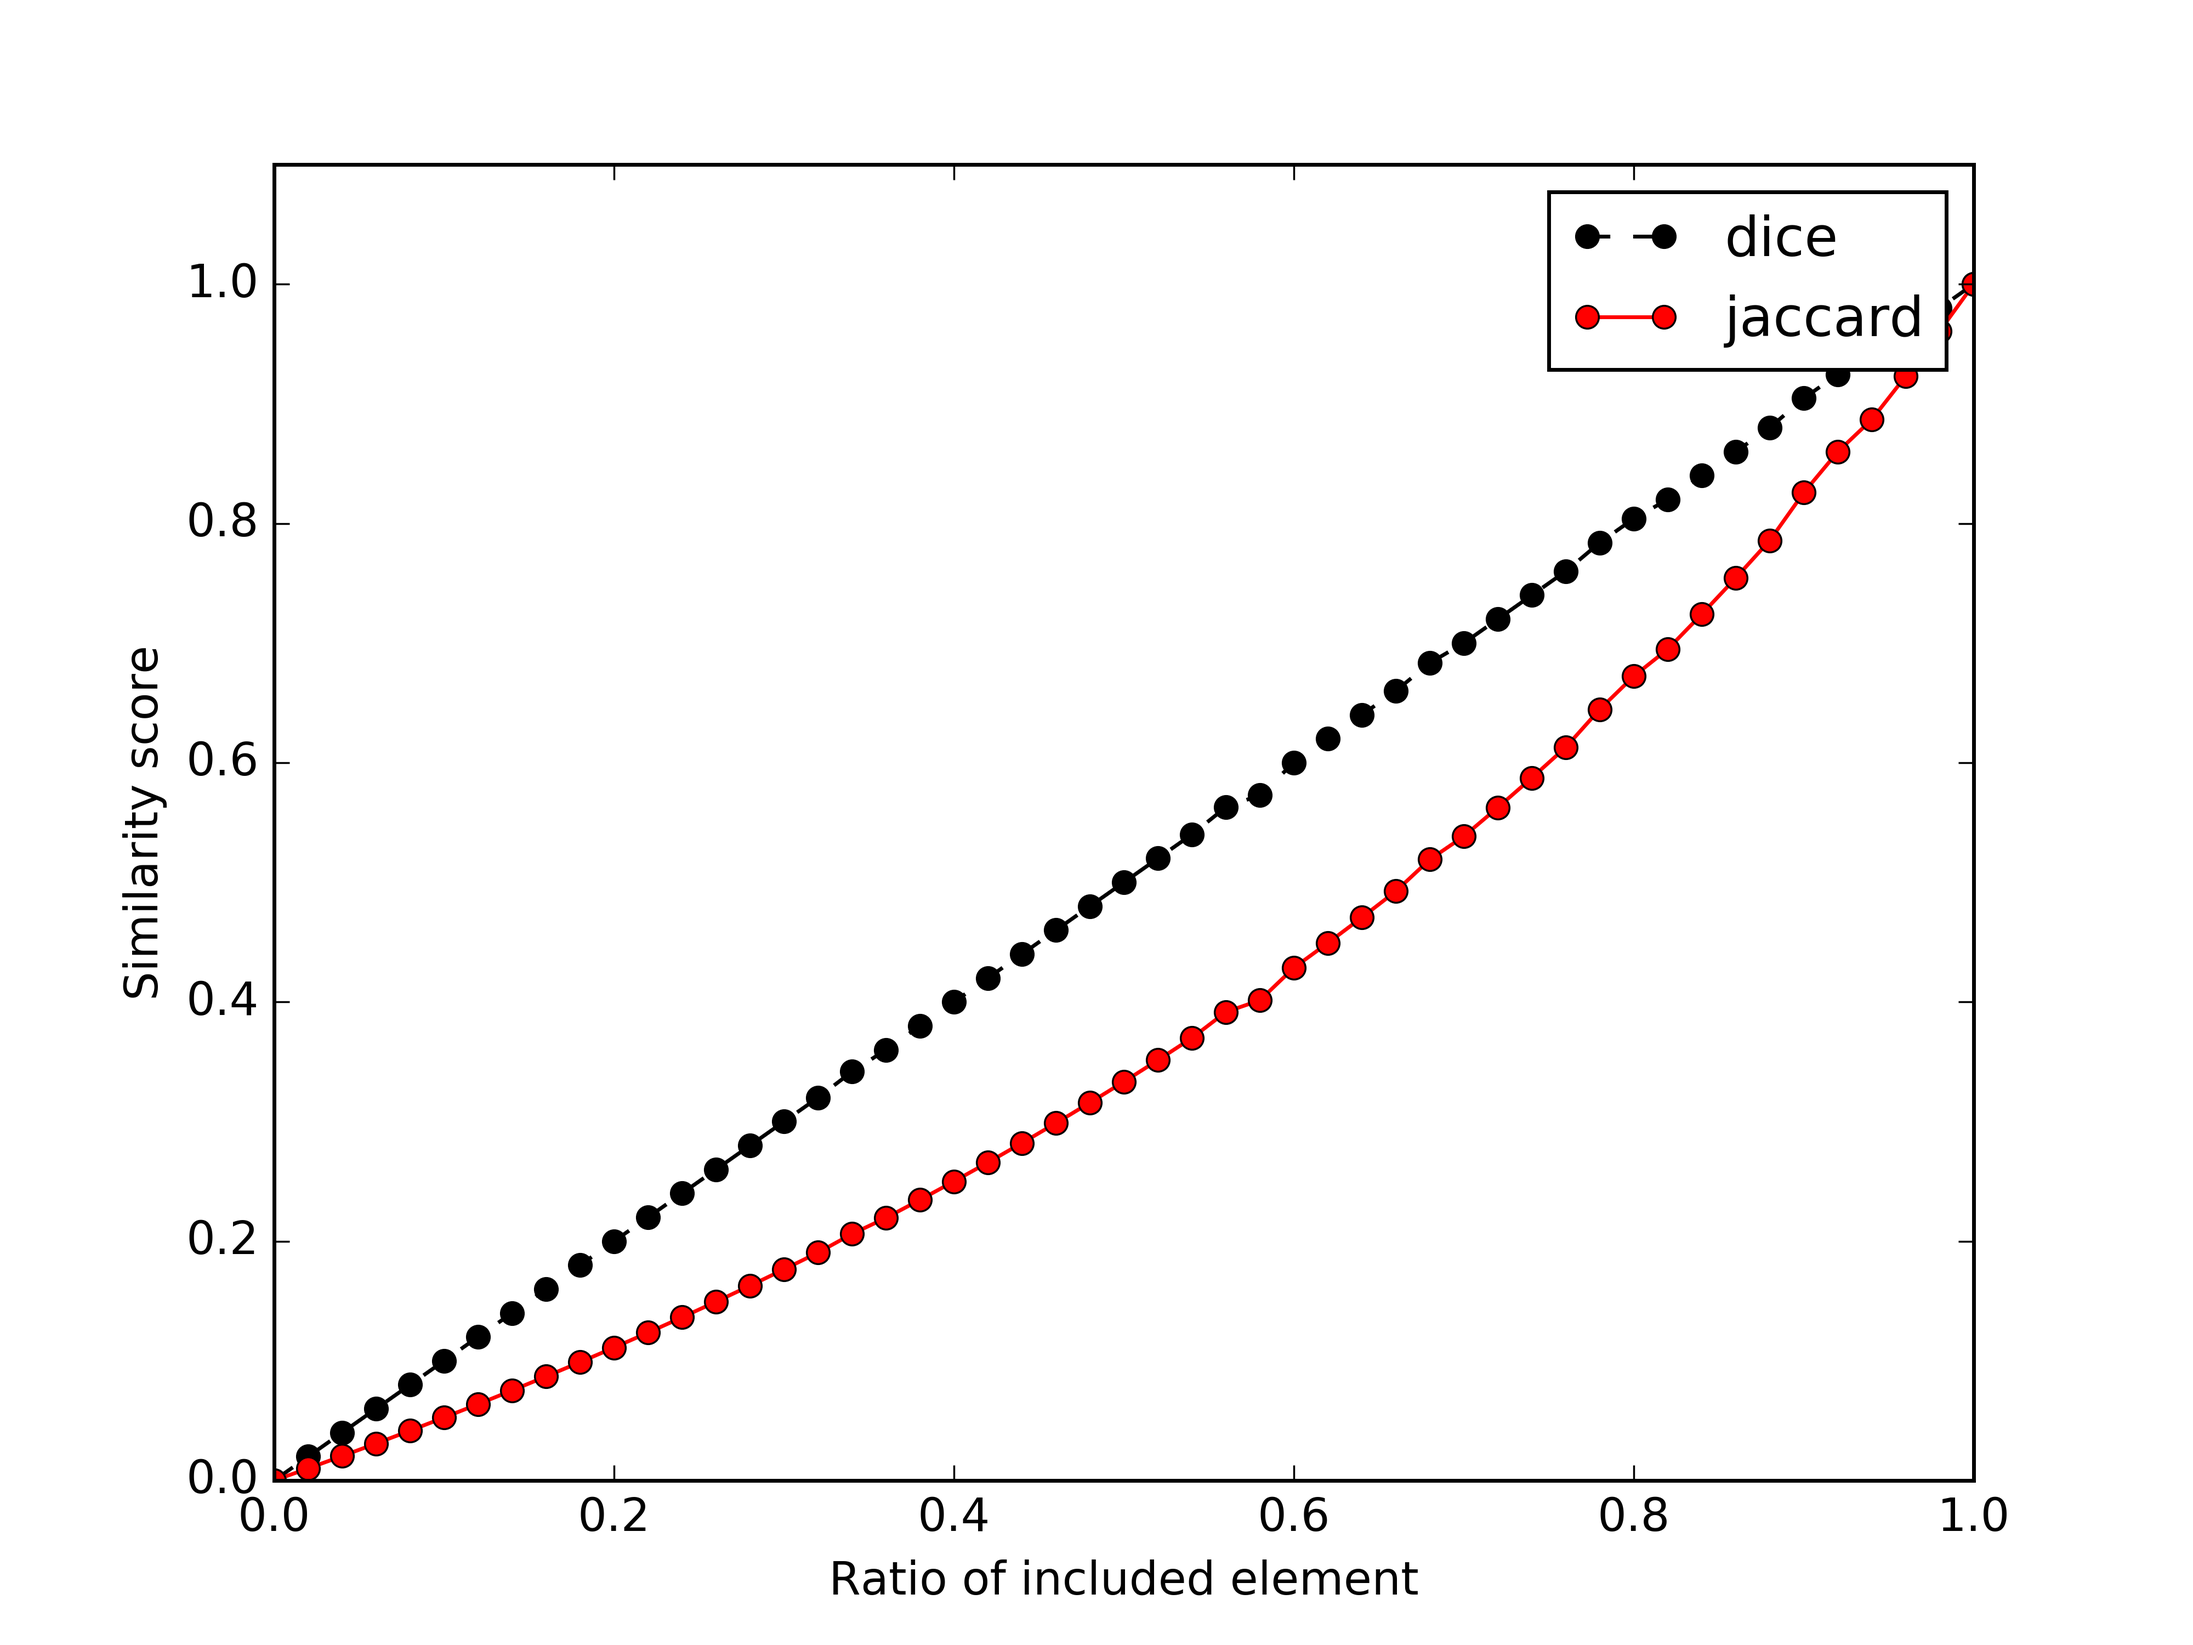
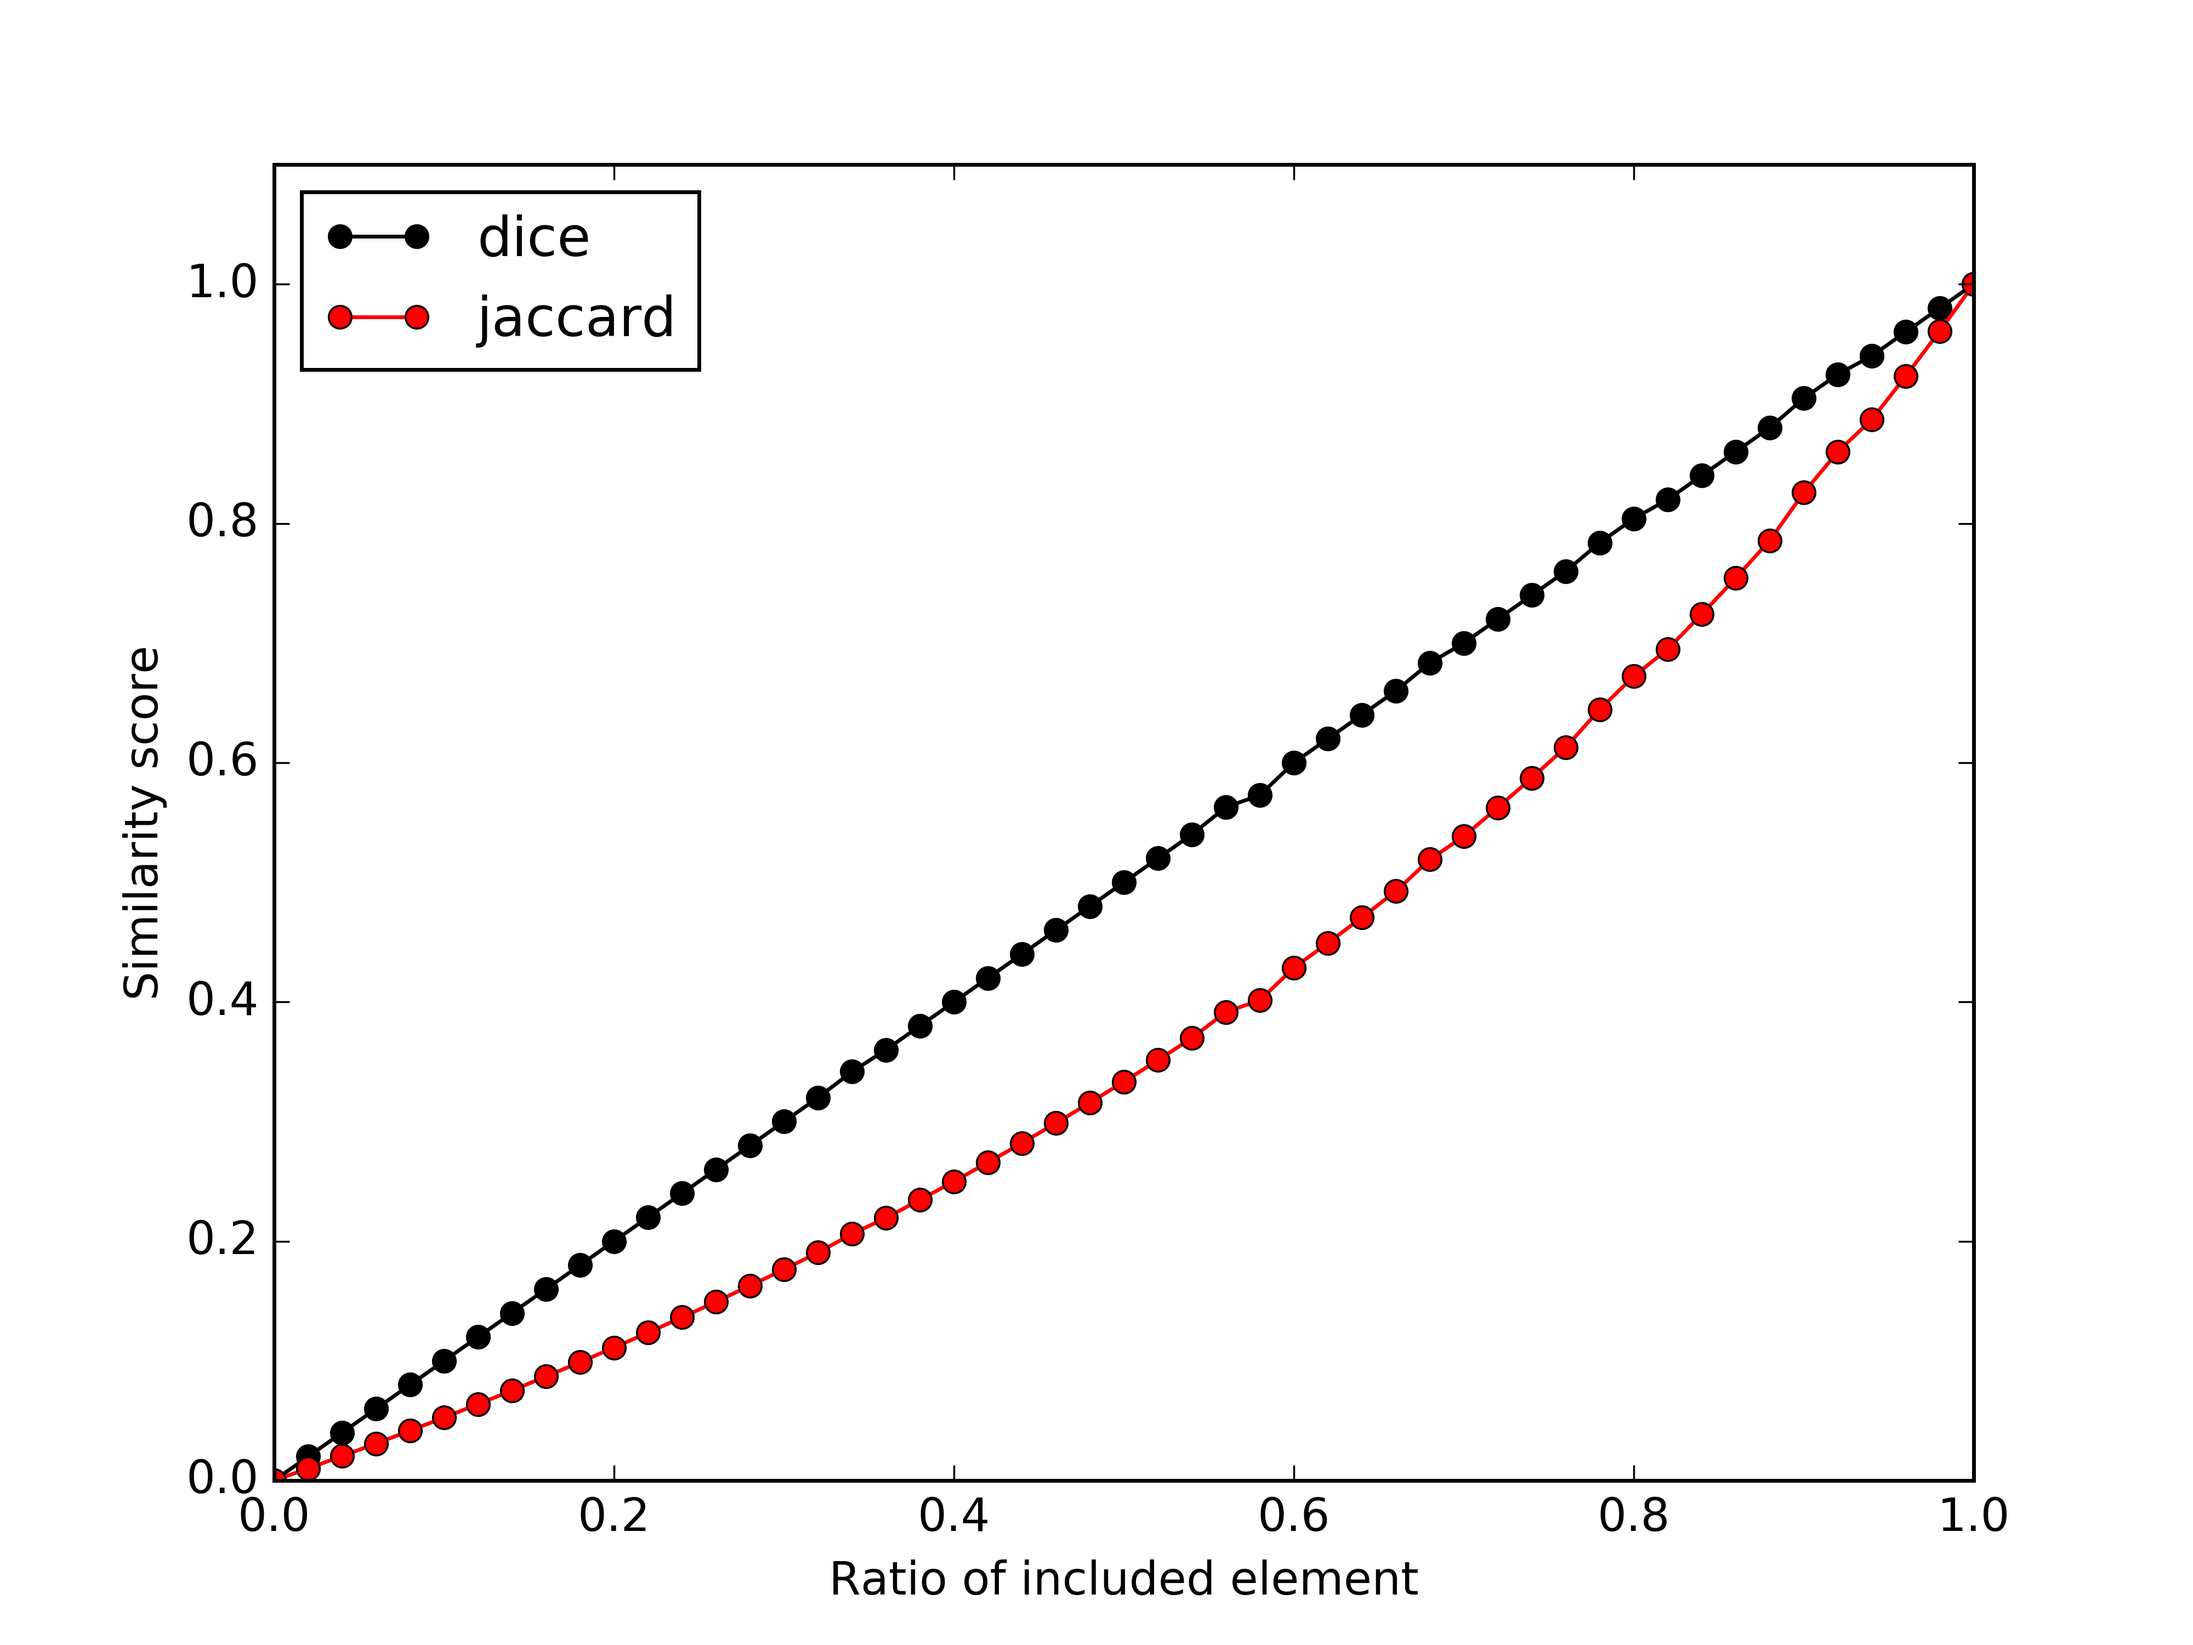
plot: fix curves colors and legend position

diff --git a/plot.py b/plot.py
@@ -26,14 +26,13 @@ def plot(measures:dict, title:str=TITLE, *, xlabel:str=XLABEL,
     # convert in pandas data frame for allow plotting
     gx = pd.DataFrame.from_dict(measures)
     # {black dotted,red,yellow,blue} line with marker o
-    styles = ['ko--', 'ro-', 'yo-', 'bo-']
+    styles = ['ko-', 'ro-', 'yo-', 'bo-']
 
     # get plot, and sets the labels for the axis and the right axis (time)
     plot = gx.plot(style=styles)
     lines, labels = plot.get_legend_handles_labels()
-    # labels = [key2label(l) for l in labels]
 
-    plot.legend(lines, labels)
+    plot.legend(lines, labels, loc='upper left')
     plot.set_xlabel(xlabel)
     plot.set_ylabel(ylabel)
 
